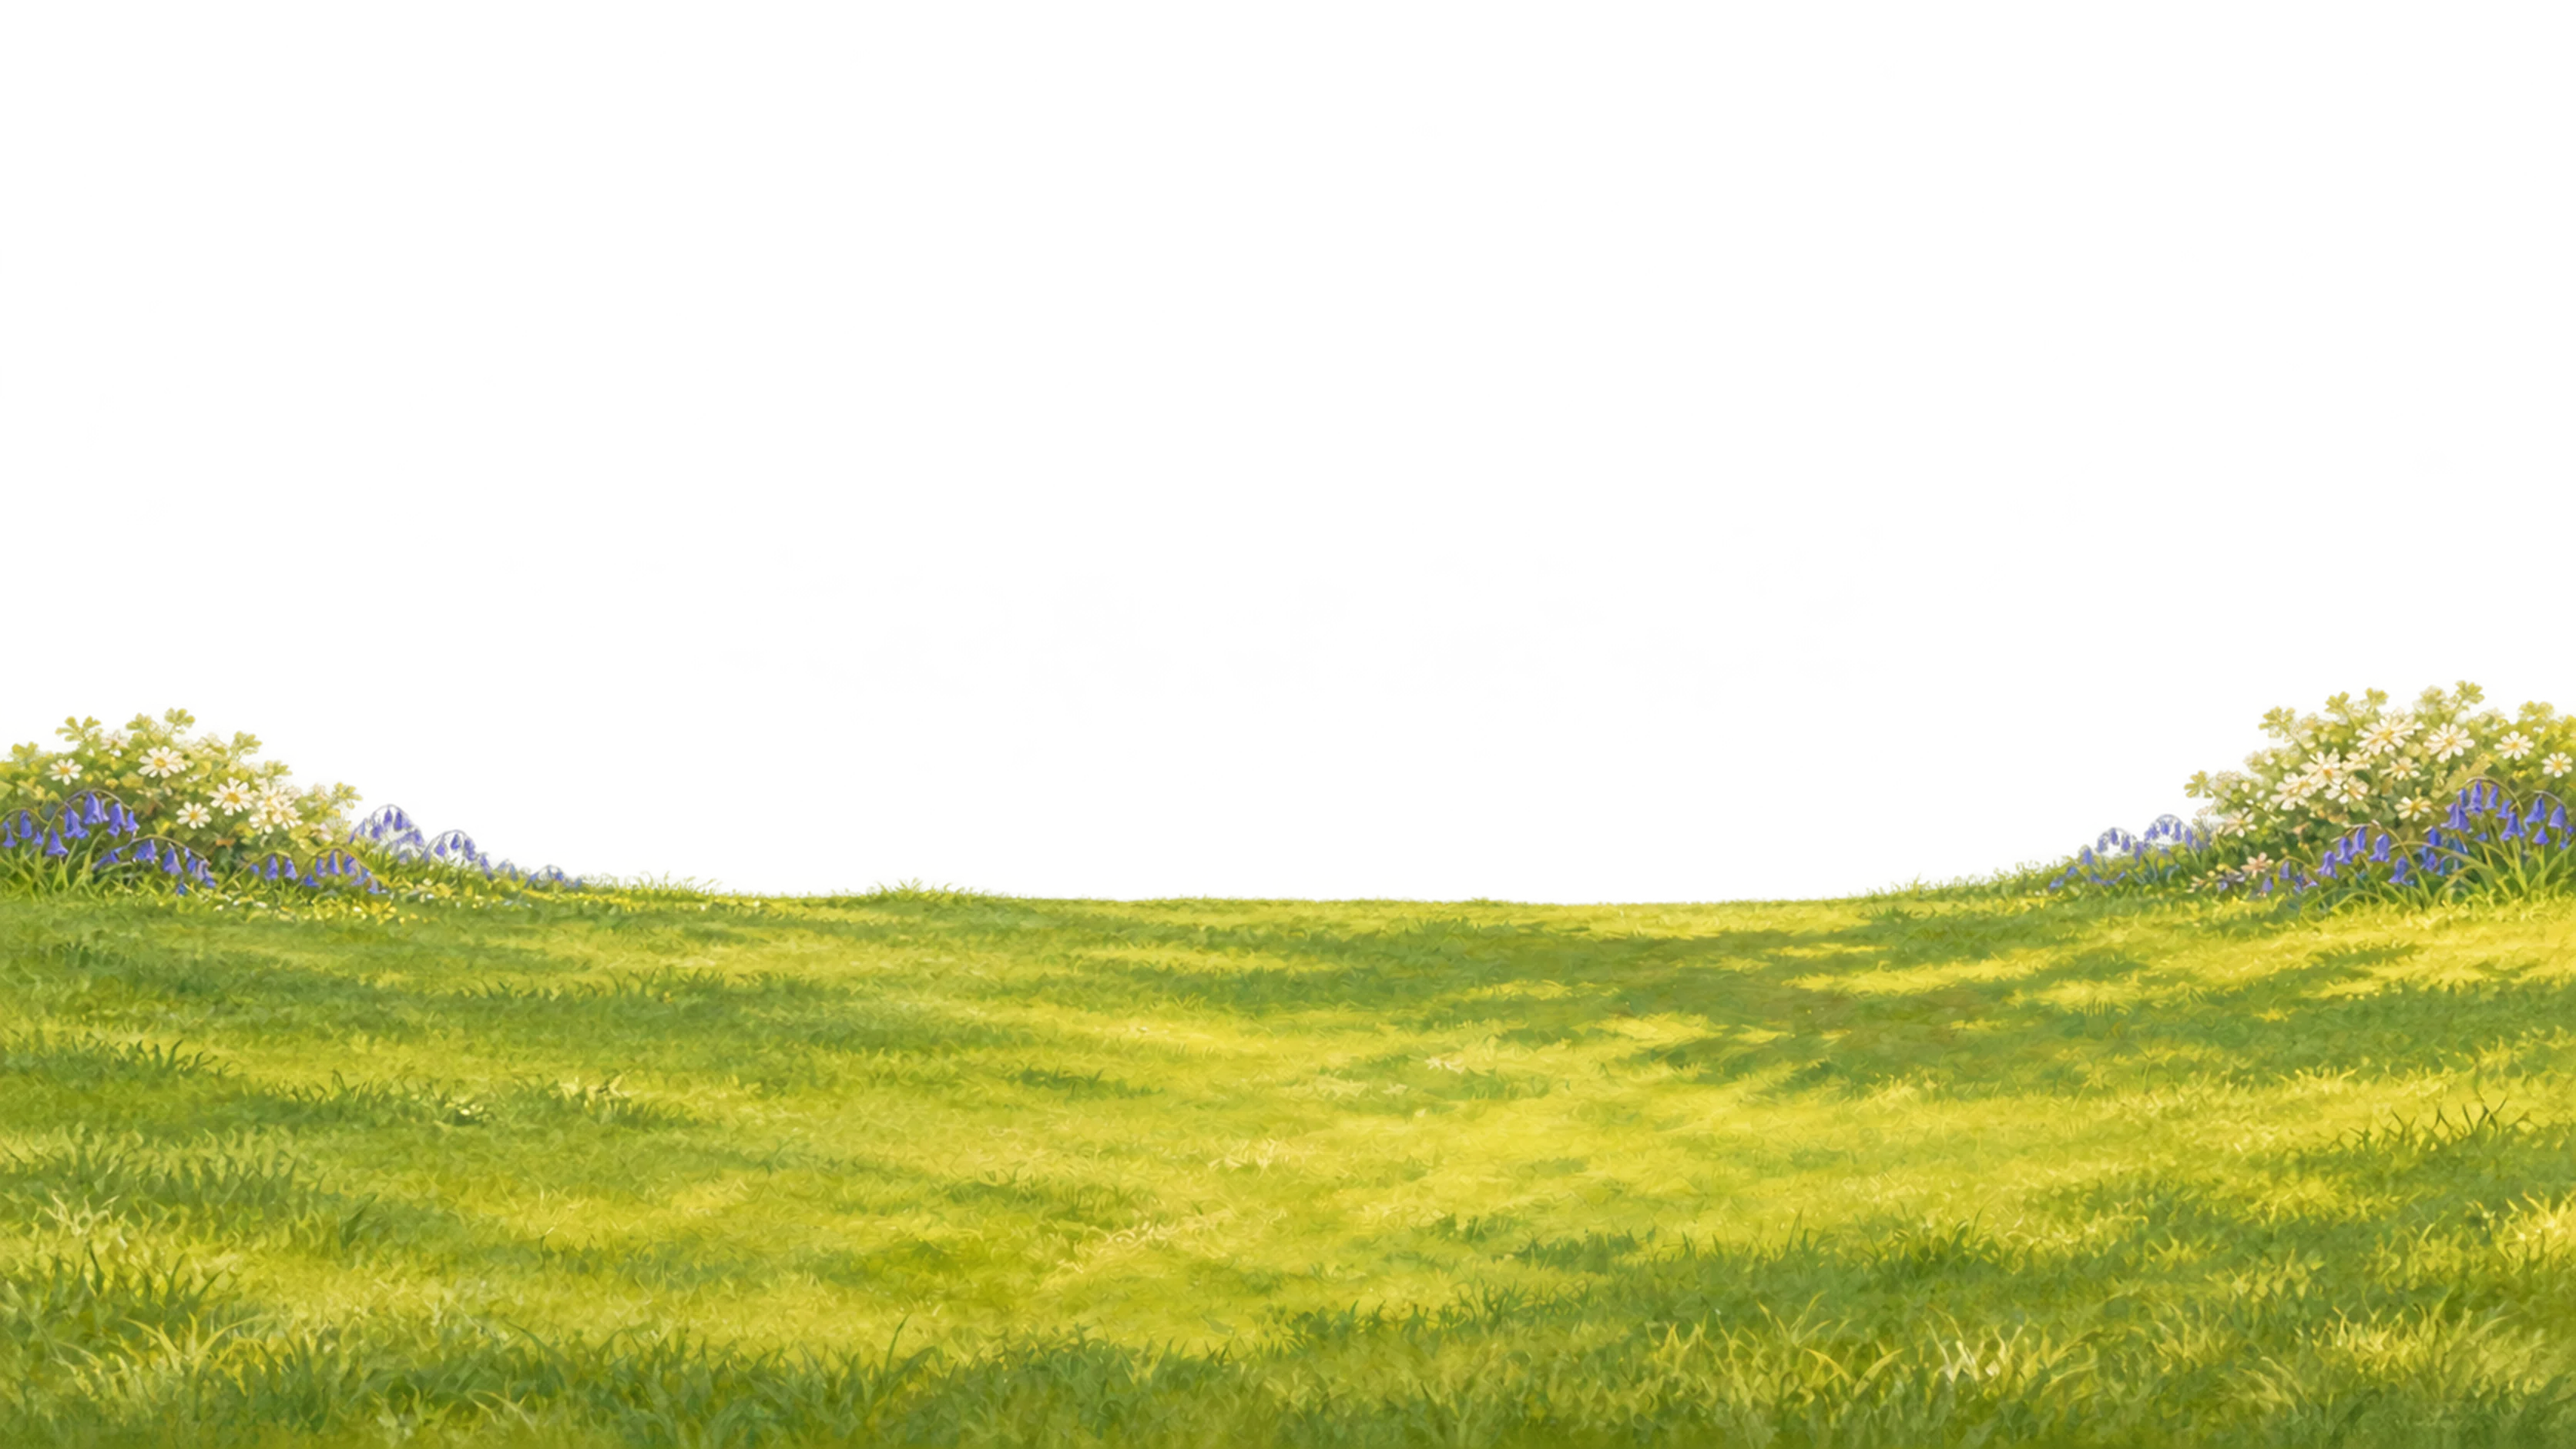
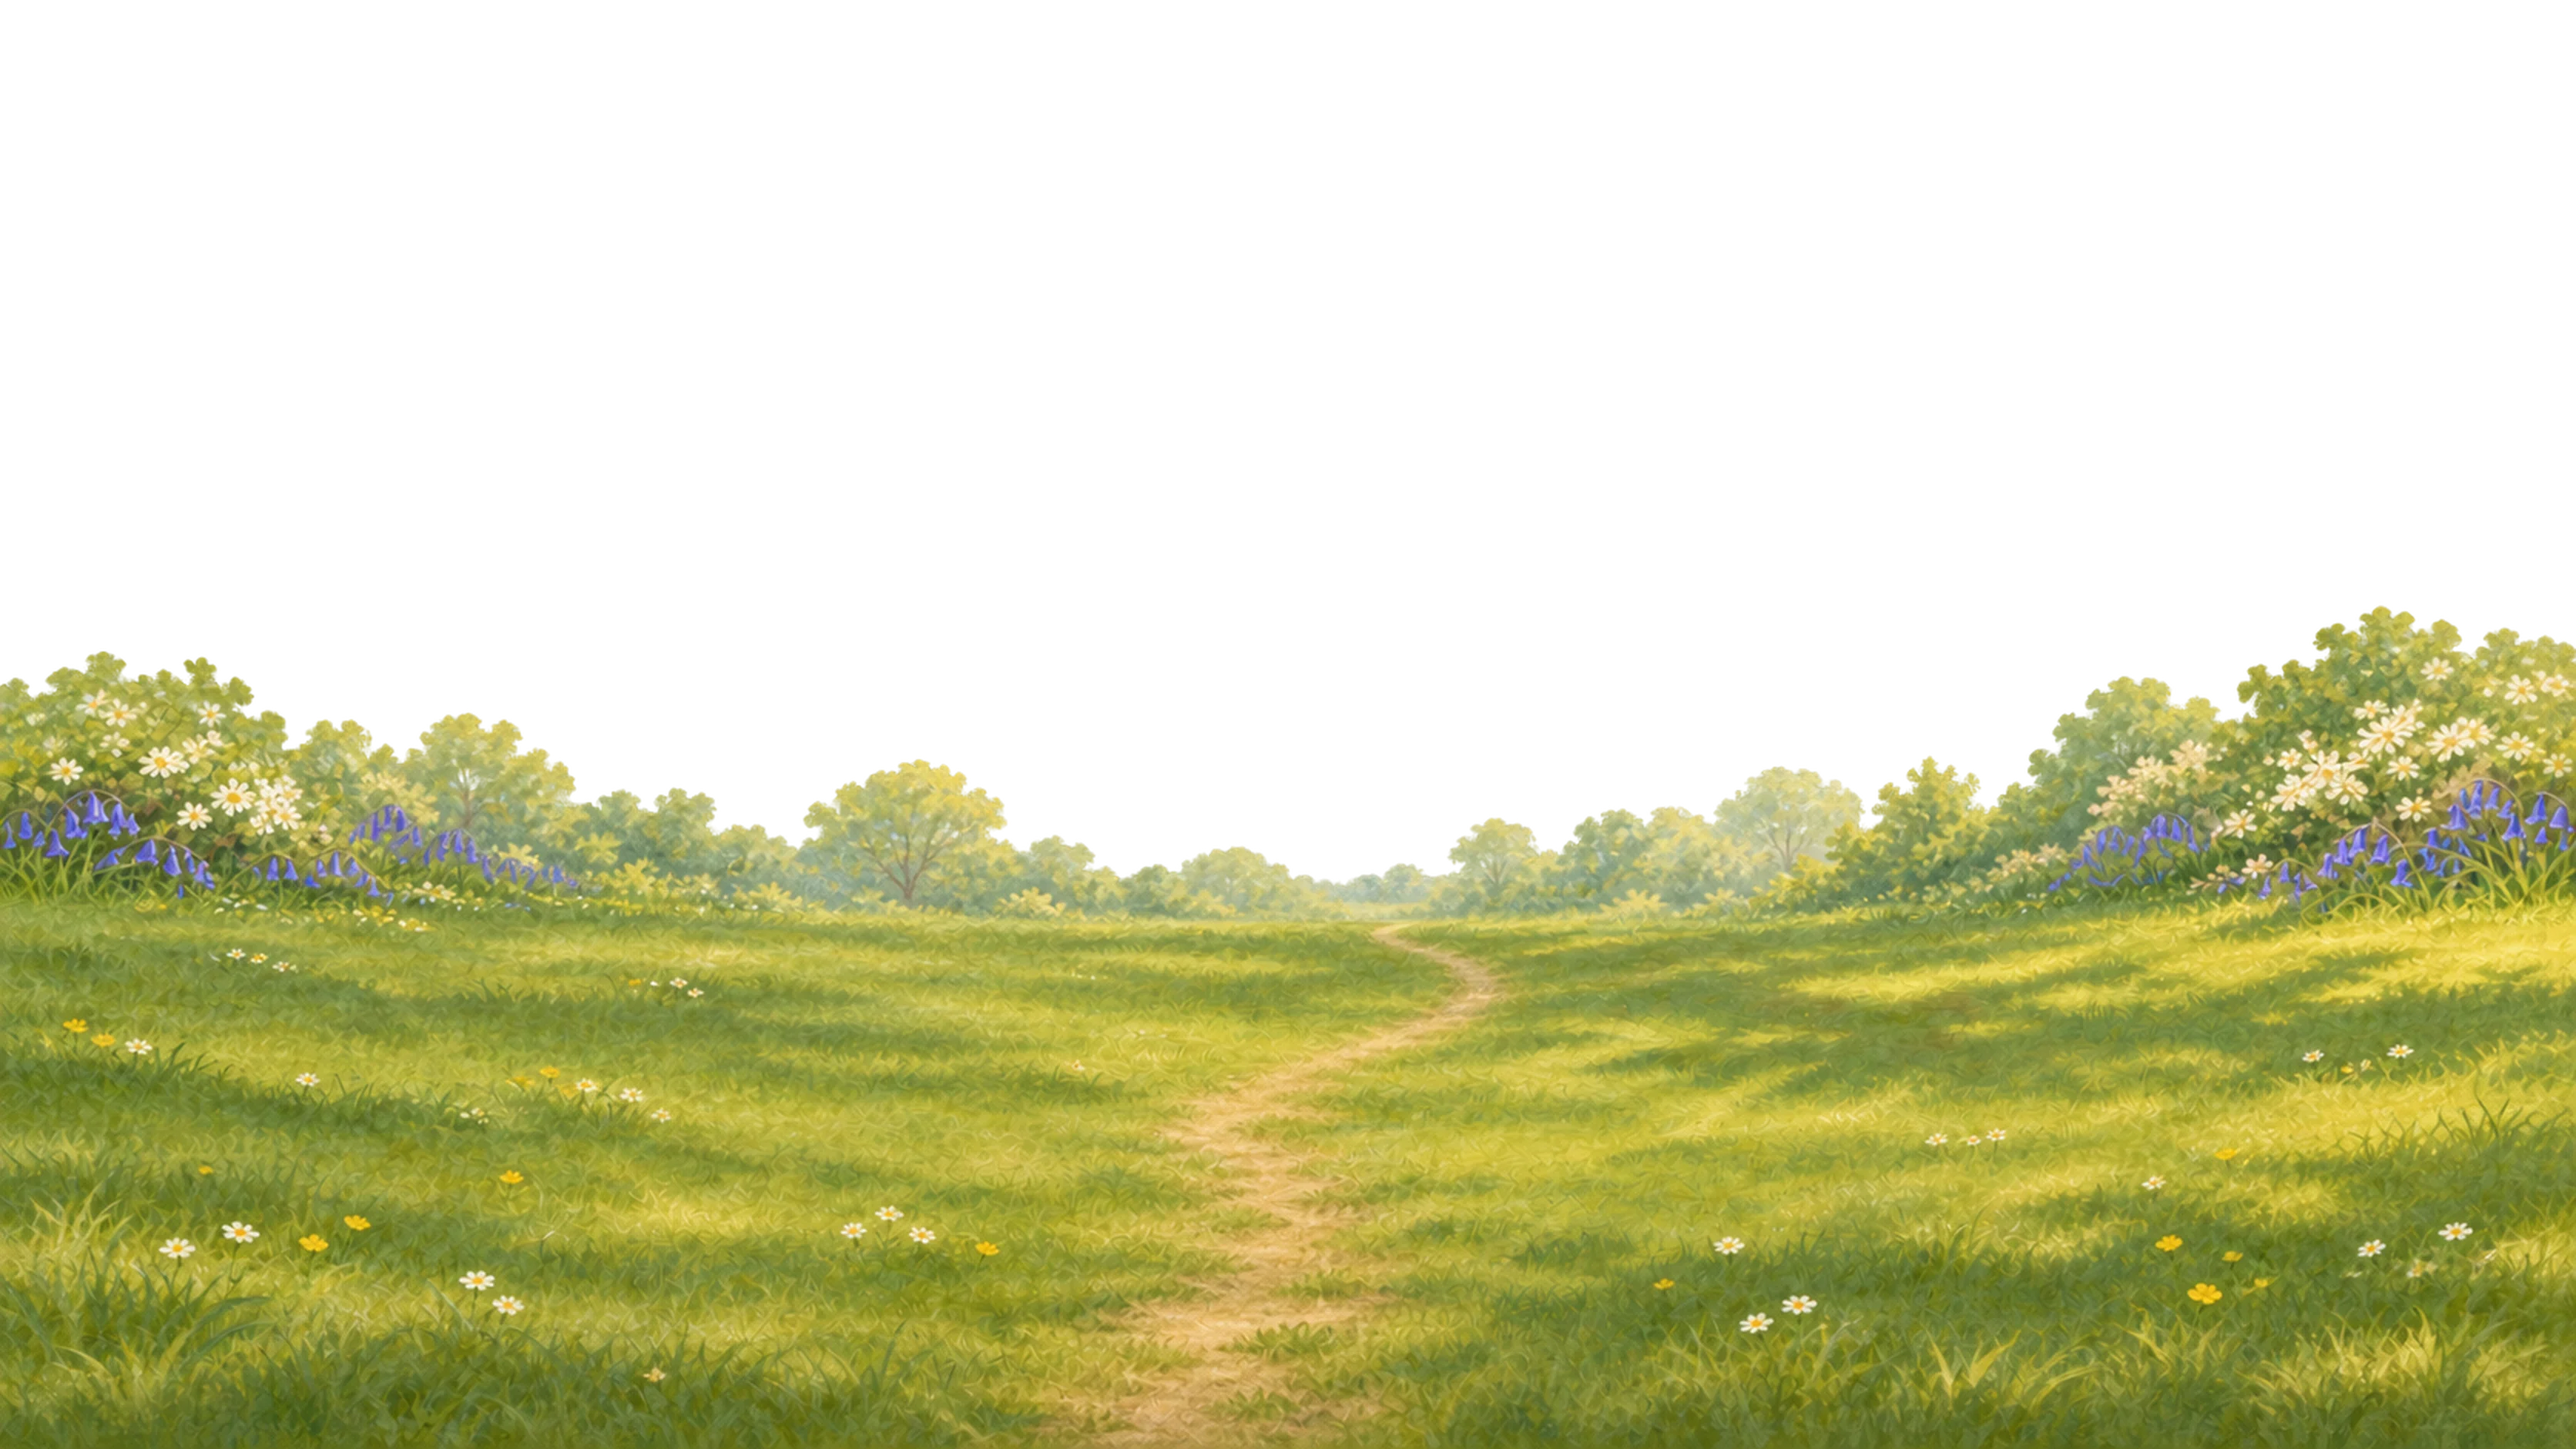
Landing middle redo (FIX-4): path and depth in the meadow, hedgehog back inside its leaf pile
Codex repainted the middle (a worn path into the tree line, varied greens, a fuller hedgerow), the
leaf pile in the foreground (a cut-out opening under a leafy arch) and all five hedgehog poses as a
real hedgehog. A new leaf-hollow layer sits behind the opening, and the hedgehog peeks from it again
(x 1885, rim 1695, crown under the arch).

Changed region(s): [[0.0, 0.4006, 1.0, 1.0]]

diff --git a/src/topics/painted-art.js b/src/topics/painted-art.js
@@ -3,7 +3,7 @@
 // id to READY. Until then every screen keeps its fallback look (the landing background picture),
 // so nothing breaks while art is out.
 // 23 November 2026: the owner chose landing concept A, Burrow Bank (docs/landing-art/).
-const LANDING = ["sky", "distant", "middle", "tunnels", "bank", "foreground", "cloud-1", "cloud-2", "cloud-3"];
+const LANDING = ["sky", "distant", "middle", "tunnels", "bank", "leaf-hollow", "foreground", "cloud-1", "cloud-2", "cloud-3"];
 export const READY = new Set(LANDING.map((n) => `landing/${n}`));
 
 let where = (id) => `assets/painted/${id}.webp`;
@@ -16,9 +16,10 @@ export const usePaintedSource = (fn) => { where = fn; };
 // A scene only switches over when all its planes are ready; clouds are added one by one.
 export const SCENES = {
   // The landing and the app backdrop behind every screen: the Burrow Bank. The dark tunnel insides
-  // sit right behind the bank (same depth) so the peeking animals rise out of the cut-out holes.
+  // sit right behind the bank (same depth) so the peeking animals rise out of the cut-out holes; the
+  // leaf hollow does the same for the hedgehog behind the foreground's leaf pile (FIX-4).
   backdrop: {
-    layers: [["landing/sky", 0], ["landing/distant", 0.2], ["landing/middle", 0.5], ["landing/tunnels", 0.62], ["landing/bank", 0.62], ["landing/foreground", 1]],
+    layers: [["landing/sky", 0], ["landing/distant", 0.2], ["landing/middle", 0.5], ["landing/tunnels", 0.62], ["landing/bank", 0.62], ["landing/leaf-hollow", 1], ["landing/foreground", 1]],
     clouds: [["landing/cloud-1", 7, 34], ["landing/cloud-2", 19, 24], ["landing/cloud-3", 12, 16]],
   },
 };
@@ -36,8 +37,8 @@ export const LANDING_PEEKS = {
     { name: "fox", x: 528, edge: 1262, width: 300, depth: 0.62, poses: peek("fox", "sniff") },
     { name: "badger", x: 295, edge: 1515, width: 360, depth: 0.62, poses: peek("badger", "sniff") },
     { name: "mouse", x: 1410, edge: 1560, width: 190, depth: 0.62, poses: peek("mouse", "whiskers") },
-    // Hedgehog off 23 Nov: owner found it floating over the leaf pile; repaint before returning.
-    //     { name: "hedgehog", x: 1880, edge: 1670, width: 330, depth: 1, under: "foreground", poses: peek("hedgehog", "sniff") },
+    // Hedgehog back 23 Nov (FIX-4): it sits inside the leaf pile's cut-out opening, crown under the arch.
+    { name: "hedgehog", x: 1885, edge: 1695, width: 330, depth: 1, poses: peek("hedgehog", "sniff") },
   ],
 };
 

diff --git a/docs/landing-art/2026-11-23-layers/FIX-4.md b/docs/landing-art/2026-11-23-layers/FIX-4.md
@@ -1,0 +1,76 @@
+# Fix 4 — the middle of the landing and the hedgehog's leaf pile (23 November 2026)
+
+The owner, on the live landing: "the middle is a heavy miss, especially the hedgehog". Compare
+`preview-stacked.png` (now) with `reference-concept-a.png` (the concept the owner chose):
+
+- The middle of the meadow is one flat, bright lime lawn running to a straight row of hills. Nothing
+  leads the eye in. The reference has a worn path into a deep view, varied greens and a full tree line.
+- The hedgehog's leaf pile is a small flat patch on the lawn, like a sticker: no shadow, no grass in
+  front, no hollow. The hedgehog peek could only float on top of it.
+- The hedgehog peek itself is a round, plush, front-on face; the reference hedgehog is a real hedgehog
+  nosing out from under the leaves.
+
+Change only the files named below. Same canvas (3344 x 1882), camera, light (sunny, upper right), palette
+and gouache/watercolour storybook look as the other layers. All BRIEF.md shared rules still hold: no
+animals or insects in any layer, overscan, hidden backing, RGBA with clean soft alpha, no halo, no
+painted checkerboard. Check every changed layer on black and on white.
+
+## 1. `layers/middle.png` — repaint (opaque to the bottom, as before)
+
+- A soft, worn earth-and-grass path starts at the bottom of the canvas between the small burrow hump
+  (H4, about x 1410) and the leaf pile (about x 1880), winds back through the meadow and disappears into
+  the far tree line a little right of centre. It narrows with distance. Gentle, not a road.
+- Grass: varied sage, meadow and yellow-green, not one lime. Darker and richer towards the bottom,
+  paler and hazier towards the back. Long, soft, dappled oak shade across the lower third. Small
+  scattered daisies and buttercups thinning with distance.
+- Far edge of the meadow: a fuller, nearer hedgerow and clumps of trees with the blossom bushes and
+  bluebell drifts, as in the reference, so the view has depth (they sit in front of `distant.png`'s
+  hills; leave that layer as it is).
+- Keep: behind the title (x 0.29–0.71 W, y 0.16–0.38 H) pale and even; around the Explore button
+  (x 0.38–0.62 W, y 0.40–0.66 H) calm and low in contrast. No big dark shapes there.
+- Paint the ground solid behind the bank and behind the leaf pile, as before.
+
+## 2. `layers/foreground.png` — repaint the leaf pile only
+
+- Replace the flat leaf patch with a deep, rounded drift of dry oak leaves (browns, russet, a few
+  yellow), centred at about x 1880, spanning about x 1560–2200, its top at about y 1480. It is tucked
+  against a low clump of ferns and long grass at its back right, sits in its own soft shadow on the
+  grass, and has grass blades and a few clover heads overlapping its front edge.
+- In the middle of its front, leaves arch over a dark opening: CUT the opening OUT to transparency
+  (soft, leafy rim, no hard edge), about 300 px wide and 200 px tall, its centre at about x 1880,
+  its lower rim at about y 1700. Leaves in front of the opening (its lower rim) stay on this layer.
+- Leave everything else in this layer exactly as it is (the oaks, branches, bottom flowers and grass,
+  the bluebells at right).
+
+## 3. `layers/leaf-hollow.png` — new
+
+Only the dark inside of the leaf pile's opening: a soft dark warm-brown, shadowy oval a bit larger than
+the opening (about 380 x 270 px, centred at x 1880, y 1610), so no meadow shows through round the
+edge. Everything else transparent. It sits right behind the foreground.
+
+## 4. The hedgehog peek — repaint all five poses
+
+Save to `../2026-11-23-peeks/peeks/`: `hedgehog-ahead.png`, `hedgehog-left.png`, `hedgehog-right.png`,
+`hedgehog-blink.png`, `hedgehog-sniff.png` (overwrite). Follow the peek BRIEF.md shared rules (512 x 512
+RGBA, all five line up exactly, only the named detail changes) with these changes:
+
+- A real European hedgehog like the one in the reference, nosing out of a hollow: long pointed snout
+  forward and a little down, small dark eyes, small rounded ears, the crown of brown-and-cream spines
+  rising behind the head. Realistic, friendly, not plush or round-faced.
+- Facing the viewer, a little three-quarter, centred. Low and wide: the spine crown top about 110 px
+  from the top of the canvas.
+- The lower body fades into deep warm-brown shadow and is fully transparent by the bottom 60 px.
+- Poses: ahead; left and right (snout turned a little each way); blink (eyes closed); sniff (snout
+  raised a little).
+
+## Also deliver
+
+- Redo `layers/preview-stacked.png` (now with the leaf hollow under the foreground) and
+  `layers/preview-phone.png`, as in BRIEF.md.
+- Redo `layers/holes.png`, adding H5 for the leaf-pile opening: mark its centre and its lower-rim line.
+- `layers/middle-check.png`: the stacked preview's middle band (y 0.55–1.0 H, full width) at full size,
+  with one hedgehog pose placed in the opening, drawn between the leaf hollow and the foreground, to
+  show it sitting inside the pile.
+- `../2026-11-23-peeks/peeks/hedgehog-sheet.png`: the five new hedgehog poses in a row on mid-green.
+
+When finished, list anything skipped or unhappy with, and say if any layer doesn't line up.
